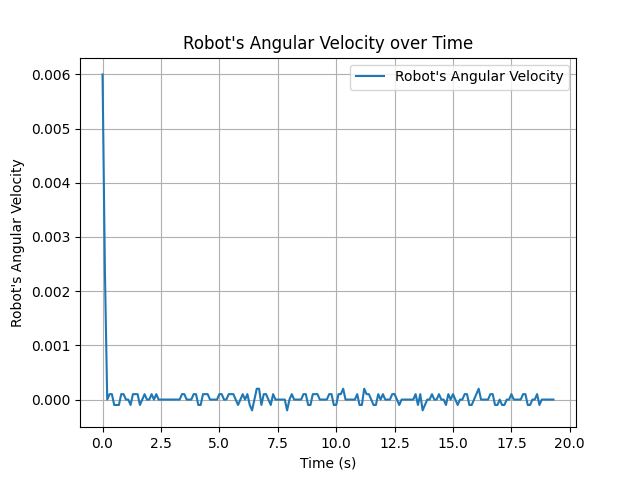
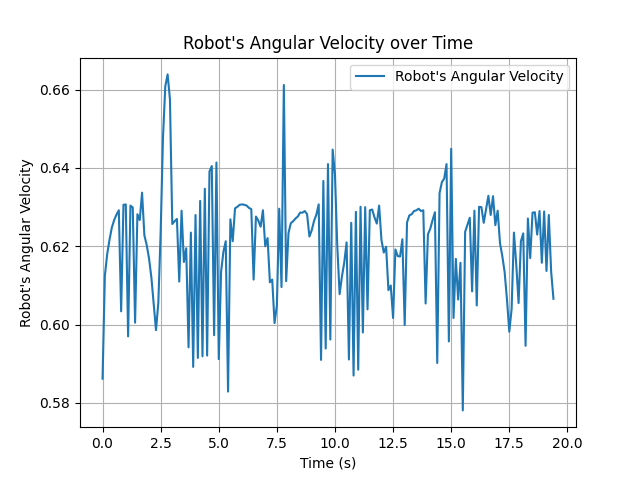
SET TWIST TO TRACK CONFIGURATION FOR TURTLEBOT

diff --git a/assets/env_titan_pb_2.py b/assets/env_titan_pb_2.py
@@ -253,8 +253,8 @@ class Env(EnvBasePB):
             self.contact_list = ['pumpkin_chassis', 'pumpkin_lower_chassis']
         else:
             #state_object= [random.uniform(-4,4),random.uniform(4,1),0.00]
-            robot1=self.load_urdf_robot("./assets/urdfs/dynamic_titan.urdf")
-            # robot1=self.load_urdf_robot("/home/kom018/pybullet_robots/data/turtlebot.urdf")
+            # robot1=self.load_urdf_robot("./assets/urdfs/dynamic_titan.urdf")
+            robot1=self.load_urdf_robot("/home/kom018/pybullet_robots/data/turtlebot.urdf")
             
             self.contact_list = ['titan_chassis', 'left_11_wheel', 'right_11_wheel','left_1_wheel', 'right_1_wheel']
             if self.args.static_robots > 1 and self.args.insert_robot2:
@@ -990,8 +990,8 @@ class Env(EnvBasePB):
         radius = 0.14
         width = 0.78/2
         # print(actions)
-        lin_vel = actions[0]#*0.50
-        ang_vel = actions[1] *0.6#*2.5/2
+        lin_vel = actions[0]*3.9#*0.50
+        ang_vel = actions[1] *0.48#*2.5/2
         # ang_vel = actions[1] #*3/2
         w_r = (lin_vel + ang_vel*width)/radius
         w_l = (lin_vel - ang_vel*width)/radius

diff --git a/assets/env_multi_robot_pb.py b/assets/env_multi_robot_pb.py
@@ -336,7 +336,7 @@ class Env(EnvBasePB):
         self.Both_Robots_stuck=[]
         self.turn_both=False
         # self.ob_dicts=[]
-        # actions=[[1,0]]
+        actions=[[0,1.5]]
 
         # self.obstacles=[]
         # self.robots_bbox=[]
@@ -508,6 +508,7 @@ class Env(EnvBasePB):
             ob,rew,done,termination, self.ob_dict=Robot.return_step(action)
             #print("action_length",action,"robot",Robot)
             if self.args.figure:
+                # print(ob)
                 ob_lin=round(ob[4],4)
                 ob_ang=round(ob[5],4)
                 self.buffer_linear_obs.append(ob_lin)
